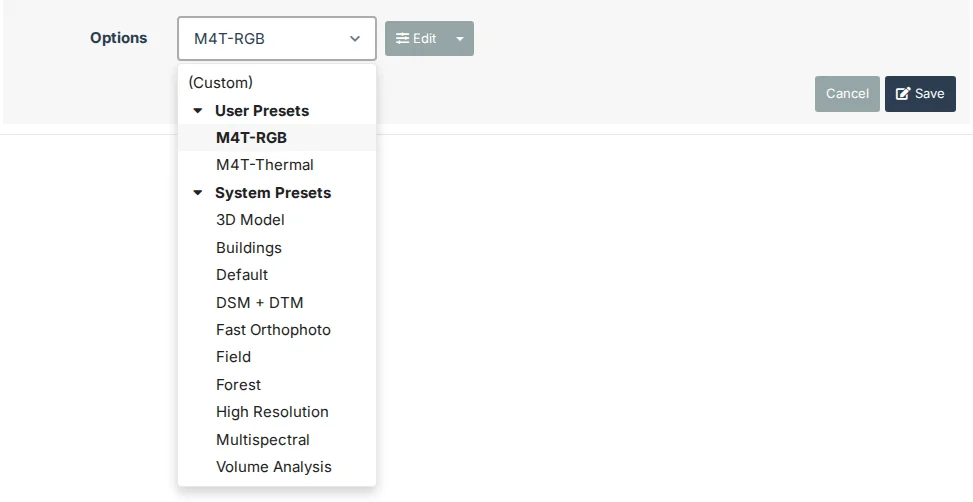
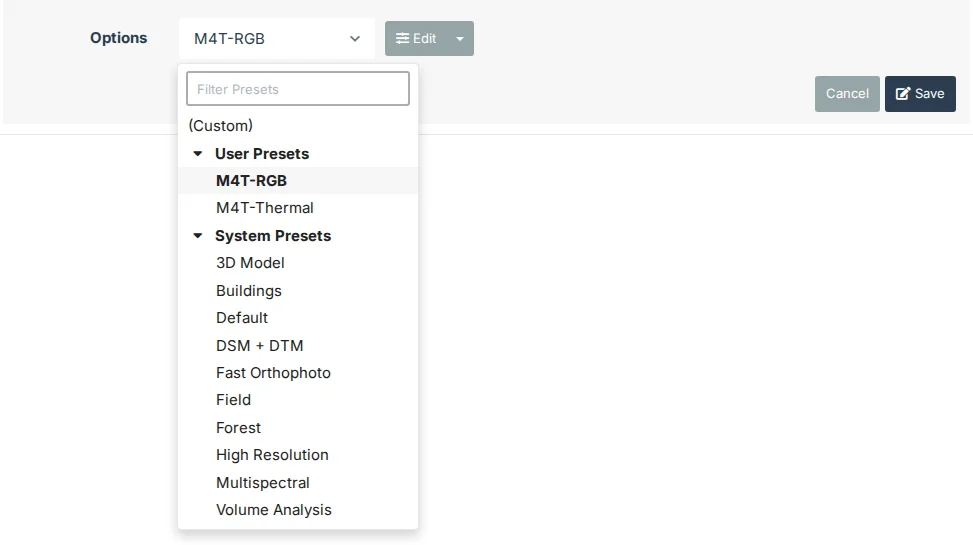
Replace Preset Options Menu: a filter box at the top of the menu
Focused on opening; narrows the presets as you type (any case), their submenus open;
Enter chooses the first match, Escape clears then closes.

diff --git a/tweakui/public/preset_menu.js b/tweakui/public/preset_menu.js
@@ -3,8 +3,9 @@
 // at the top when the options were edited; then two submenus that open in the list, "User Presets" (the user's own)
 // and "System Presets" (WebODM's, Default among them), each A-Z and open at first. WebODM's select stays on the page,
 // hidden: choosing an item sets its value and sends it a change event, so WebODM's own code selects the preset, and
-// the button follows the select (its options, value and title change as WebODM re-renders it). UMD, so Jest can
-// load it.
+// the button follows the select (its options, value and title change as WebODM re-renders it). A filter box at the
+// top, focused as the menu opens, shows only the presets whose names hold what is typed (any case), every submenu with
+// a match open; Enter chooses the first match. UMD, so Jest can load it.
 (function (root, factory) {
     var node = typeof module === "object" && module.exports;
     var api = factory(node ? require("./core") : root.TweakUI);
@@ -65,6 +66,16 @@
         button.appendChild(ui.el(doc, "i", "fa fa-chevron-down tweakui-presets-caret"));
         var menu = ui.el(doc, "ul", "dropdown-menu tweakui-presets-menu");
         menu.setAttribute("role", "menu");
+        // The filter: the menu's first item, kept as the rest is rebuilt (so typing keeps its focus and caret)
+        var filterItem = ui.el(doc, "li", "tweakui-presets-filter");
+        filterItem.setAttribute("role", "presentation");
+        var filter = ui.el(doc, "input", "form-control input-sm");
+        filter.type = "text";
+        filter.setAttribute("placeholder", "Filter Presets");
+        filter.setAttribute("aria-label", "Filter Presets");
+        filter.setAttribute("autocomplete", "off");
+        filterItem.appendChild(filter);
+        menu.appendChild(filterItem);
         wrap.appendChild(button);
         wrap.appendChild(menu);
         // Each submenu, by key: open at first, then as the user left it
@@ -97,16 +108,17 @@
             return li;
         }
 
-        // A submenu's heading, and its presets while open; none without presets
-        function group(key, label, presets) {
+        // A submenu's heading, and its presets while open (always while filtering); none without presets
+        function group(key, label, presets, filtering) {
             if (!presets.length) return;
-            var open = groupOpen[key];
+            var open = filtering || groupOpen[key];
             var li = ui.el(doc, "li", "tweakui-presets-group");
             li.setAttribute("role", "presentation");
             var head = ui.el(doc, "a", "tweakui-presets-group-head");
             head.href = "#";
             head.setAttribute("role", "menuitem");
             head.setAttribute("data-group", key);
+            if (filtering) head.setAttribute("data-filtering", "");
             head.setAttribute("aria-expanded", open ? "true" : "false");
             head.appendChild(ui.el(doc, "i", "fa fa-fw " + (open ? "fa-caret-down" : "fa-caret-right")));
             head.appendChild(doc.createTextNode(" " + label));
@@ -116,29 +128,41 @@
         }
 
         function build() {
-            var list = order(select);
-            while (menu.firstChild) menu.removeChild(menu.firstChild);
-            list.top.forEach(function (p) { menu.appendChild(item(p)); });
-            group("user", "User Presets", list.user);
-            group("system", "System Presets", list.system);
+            var list = order(select), query = filter.value.trim().toLowerCase();
+            var match = function (p) { return !query || p.name.toLowerCase().indexOf(query) !== -1; };
+            while (menu.lastChild !== filterItem) menu.removeChild(menu.lastChild);
+            list.top.filter(match).forEach(function (p) { menu.appendChild(item(p)); });
+            group("user", "User Presets", list.user.filter(match), !!query);
+            group("system", "System Presets", list.system.filter(match), !!query);
+            if (menu.lastChild === filterItem) {
+                var none = ui.el(doc, "li", "disabled tweakui-presets-none");
+                none.setAttribute("role", "presentation");
+                none.appendChild(ui.el(doc, "span", "", "No matching presets"));
+                menu.appendChild(none);
+            }
         }
 
         function isOpen() { return wrap.classList.contains("open"); }
 
         function links() { return Array.prototype.slice.call(menu.querySelectorAll("a")); }
 
-        // The arrows: from the button to the chosen preset (else the first or last item), then item by item
+        // The arrows: from the button to the chosen preset (else the first or last item), from the filter down to the
+        // first match (past the submenus' names), then item by item, the filter box before the first
         function focusItem(step) {
-            var all = links(), i = all.indexOf(doc.activeElement);
-            if (!all.length) return;
-            if (i === -1) (menu.querySelector("li.tweakui-presets-current > a") || all[step > 0 ? 0 : all.length - 1]).focus();
+            var all = [filter].concat(links()), i = all.indexOf(doc.activeElement);
+            var first = menu.querySelector("a[data-value]");
+            if (i === 0 && step > 0 && first) first.focus();
+            else if (i === -1) (menu.querySelector("li.tweakui-presets-current > a") || all[step > 0 ? Math.min(1, all.length - 1) : all.length - 1]).focus();
             else all[(i + step + all.length) % all.length].focus();
         }
 
-        function open() {
+        // focusFilter: opened with a click, ready for typing; the filter starts empty each time
+        function open(focusFilter) {
+            filter.value = "";
             build();
             wrap.classList.add("open");
             button.setAttribute("aria-expanded", "true");
+            if (focusFilter) filter.focus();
         }
 
         function close(refocus) {
@@ -150,13 +174,16 @@
 
         button.addEventListener("click", ui.guard(NAME, function () {
             if (isOpen()) close(false);
-            else open();
+            else open(true);
         }));
+        filter.addEventListener("input", ui.guard(NAME, build));
         menu.addEventListener("click", ui.guard(NAME, function (e) {
             var a = e.target.closest ? e.target.closest("a") : null;
             if (!a) return;
             e.preventDefault();
             if (a.classList.contains("tweakui-presets-group-head")) {
+                // While filtering, every submenu with a match stays open
+                if (a.hasAttribute("data-filtering")) return;
                 var key = a.getAttribute("data-group");
                 groupOpen[key] = a.getAttribute("aria-expanded") !== "true";
                 build();
@@ -172,7 +199,16 @@
         wrap.addEventListener("keydown", ui.guard(NAME, function (e) {
             if (e.key === "Escape" && isOpen()) {
                 e.preventDefault();
-                close(true);
+                // First the filter is cleared, then the menu closed
+                if (filter.value) {
+                    filter.value = "";
+                    build();
+                    filter.focus();
+                } else close(true);
+            } else if (e.key === "Enter" && e.target === filter) {
+                e.preventDefault();
+                var first = menu.querySelector("a[data-value]");
+                if (first) first.click();
             } else if (e.key === "ArrowDown" || e.key === "ArrowUp") {
                 e.preventDefault();
                 if (!isOpen()) open();
@@ -200,7 +236,7 @@
         select.setAttribute(DONE, "");
         select.parentNode.insertBefore(wrap, select.nextSibling);
         sync();
-        return {wrap: wrap, button: button, menu: menu, open: open, close: close, sync: sync};
+        return {wrap: wrap, button: button, menu: menu, filter: filter, open: open, close: close, sync: sync};
     }
 
     // Every preset select on the page that has no dropdown yet

diff --git a/tweakui/public/__tests__/preset_menu.test.js b/tweakui/public/__tests__/preset_menu.test.js
@@ -22,7 +22,7 @@ function start(settings = {replace_preset_menu: true}) {
 }
 
 const button = () => document.querySelector(".tweakui-presets-button");
-const items = () => Array.from(document.querySelectorAll(".tweakui-presets-menu > li")).map(li =>
+const items = () => Array.from(document.querySelectorAll(".tweakui-presets-menu > li:not(.tweakui-presets-filter)")).map(li =>
     li.classList.contains("divider") ? "---" : (li.querySelector(".tweakui-presets-nested") ? "  " : "") + li.textContent.trim());
 const link = text => Array.from(document.querySelectorAll(".tweakui-presets-menu a")).find(a => a.textContent.trim() === text);
 
@@ -95,6 +95,104 @@ test("the chosen preset is marked", () => {
     expect(link("m4t-Thermal").parentNode.className).toBe("tweakui-presets-current");
     expect(link("m4t-Thermal").className).toContain("theme-background-highlight");
     expect(link("Default").parentNode.className).toBe("");
+});
+
+describe("the filter", () => {
+    const filter = () => document.querySelector(".tweakui-presets-filter input");
+    const type = text => {
+        filter().value = text;
+        filter().dispatchEvent(new Event("input", {bubbles: true}));
+    };
+    const key = (k, target = document.activeElement) => target.dispatchEvent(new KeyboardEvent("keydown", {key: k, bubbles: true, cancelable: true}));
+
+    test("opened with a click, the menu's filter box at the top has the focus, empty", () => {
+        form();
+        start();
+        button().click();
+        const first = document.querySelector(".tweakui-presets-menu > li");
+        expect(first.className).toBe("tweakui-presets-filter");
+        expect(filter().placeholder).toBe("Filter Presets");
+        expect(document.activeElement).toBe(filter());
+        expect(filter().value).toBe("");
+    });
+
+    test("typing shows only the presets whose names hold the text, in any case, with their submenus open", () => {
+        form({custom: true, value: "-1"});
+        start();
+        button().click();
+        link("User Presets").click();
+        filter().focus();
+        type("m");
+        expect(items()).toEqual(["(Custom)", "User Presets", "  M4T-RGB", "  m4t-Thermal", "  Multispectral", "System Presets",
+            "  3D Model"]);
+        type("ORTHO");
+        expect(items()).toEqual(["System Presets", "  Fast Orthophoto"]);
+        type("cust");
+        expect(items()).toEqual(["(Custom)"]);
+        // The filter keeps the focus and what was typed as the list changes
+        expect(document.activeElement).toBe(filter());
+        type("");
+        expect(items()).toEqual(["(Custom)", "User Presets", "System Presets", "  3D Model", "  Buildings", "  Default",
+            "  Fast Orthophoto", "  High Resolution"]);
+    });
+
+    test("no match says so", () => {
+        form();
+        start();
+        button().click();
+        type("zzz");
+        expect(items()).toEqual(["No matching presets"]);
+    });
+
+    test("while filtering, a submenu's name doesn't close it", () => {
+        form();
+        start();
+        button().click();
+        type("t");
+        link("User Presets").click();
+        expect(items()).toContain("  m4t-Thermal");
+    });
+
+    test("Enter chooses the first match", () => {
+        const select = form();
+        start();
+        button().click();
+        type("build");
+        key("Enter", filter());
+        expect(select.value).toBe("5");
+        expect(document.querySelector(".tweakui-presets").classList.contains("open")).toBe(false);
+    });
+
+    test("the down arrow goes from the filter to the first match, past its submenu's name; the up arrow back, item by item", () => {
+        form();
+        start();
+        button().click();
+        type("rgb");
+        key("ArrowDown", filter());
+        expect(document.activeElement.textContent).toBe("M4T-RGB");
+        key("ArrowUp");
+        expect(document.activeElement.textContent.trim()).toBe("User Presets");
+        key("ArrowUp");
+        expect(document.activeElement).toBe(filter());
+    });
+
+    test("Escape clears the filter first, then closes the menu; it opens empty again", () => {
+        form();
+        start();
+        button().click();
+        type("rgb");
+        key("Escape", filter());
+        expect(filter().value).toBe("");
+        expect(items()).toContain("  Default");
+        expect(document.querySelector(".tweakui-presets").classList.contains("open")).toBe(true);
+        key("Escape", filter());
+        expect(document.querySelector(".tweakui-presets").classList.contains("open")).toBe(false);
+        button().click();
+        type("rgb");
+        button().click();
+        button().click();
+        expect(filter().value).toBe("");
+    });
 });
 
 test("without presets of the user's, there is no User Presets", () => {

diff --git a/tweakui/public/main.css b/tweakui/public/main.css
@@ -319,6 +319,8 @@ html.tweakui-dragging, html.tweakui-dragging * { user-select: none; }
 .tweakui-presets .tweakui-presets-menu { min-width: 100%; max-height: 60vh; overflow-y: auto; }
 .tweakui-presets .tweakui-presets-menu > li > a.tweakui-presets-nested { padding-left: 38px; }
 .tweakui-presets .tweakui-presets-group-head, .tweakui-presets .tweakui-presets-current > a { font-weight: bold; }
+.tweakui-presets .tweakui-presets-filter { padding: 2px 8px 6px; }
+.tweakui-presets .tweakui-presets-none > span { display: block; padding: 3px 20px; opacity: 0.6; font-style: italic; }
 @media (max-width: 767px) {
     .tweakui-presets { display: block; }
 }

diff --git a/tweakui/features.py b/tweakui/features.py
@@ -83,7 +83,7 @@ CATEGORIES = [
             Setting("replace_preset_menu", False, _("Replace Preset Options Menu"),
                     _("Replaces the Options dropdown of a new or edited task with a menu that lists its presets A-Z in "
                       "two submenus, User Presets (your own saved presets) and System Presets (WebODM's, Default among "
-                      "them), below (Custom)."),
+                      "them), below (Custom), and a box at the top that filters them as you type."),
                     preview="replace-preset-options-menu", scripts=["preset_menu.js"]),
         ]),
         Group(_("Task Details"), [

diff --git a/upcoming-changes.md b/upcoming-changes.md
@@ -10,6 +10,12 @@
   cleaner hook; see "Global Controls: units and temperature in the header".
 
 **Done**
+- **Replace Preset Options Menu: a filter box** (the user's request, 2026-11-08) — at the top of the menu, focused on
+  opening: only the presets whose names hold the text (any case) stay, their submenus open and not closable while
+  filtering; "No matching presets"; Enter chooses the first match, the down arrow goes to it, Escape clears then
+  closes; empty each time the menu opens. Branch `preset-menu-filter`: `preset_menu.js` (`filter`, `build`,
+  `focusItem`), `main.css`, tests in `__tests__/preset_menu.test.js`, `features.py`'s description, `docs/general.md`,
+  CHANGELOG, screenshot retaken. Live on both stacks with real typing (4.0.0's Edit form, 3.3.2's New Task panel).
 - **Just for Fun: Enable Interaction** (the user's request, 2026-11-08) — a part of Surprise Me
   (`surprise_me_interaction`, on by default so the right-click rocket stays until turned off; listed in the tests'
   `ON_BY_DEFAULT` with its reason): off, the fireworks go on and a right-click is the browser's. Branch

diff --git a/docs/general.md b/docs/general.md
@@ -90,10 +90,14 @@ easier to scan:
 
 Both submenus start open; a click on a submenu's name closes it, and opens it again.
 
+A **filter box** at the top of the menu has the keyboard focus as the menu opens: type part of a preset's name, in
+any case, and only the presets that match stay, their submenus open ("No matching presets" when none does). Enter
+chooses the first match and the down arrow moves into the list. Escape clears the filter, and a second Escape closes
+the menu. The filter starts empty each time the menu opens.
+
 The chosen preset is in bold and highlighted, in your theme's colours (WebODM's own dropdown shows the system presets
 on a light background, which a dark theme makes hard to read). Choosing a preset works as it does in WebODM's dropdown,
-and the Edit button beside it is unchanged. From the keyboard, the arrow keys open the list and move through it, and
-Escape closes it.
+and the Edit button beside it is unchanged. From the keyboard, the arrow keys open the list and move through it.
 
 ## Task Details > Enhanced Task Details
 

diff --git a/CHANGELOG.md b/CHANGELOG.md
@@ -2,6 +2,8 @@
 
 ## Unreleased
 
+- Replace Preset Options Menu: a filter box at the top of the menu narrows the presets as you type; Enter chooses the
+  first match.
 - General > Just for Fun > Surprise Me > Enable Interaction (on by default): turn it off to keep the fireworks
   without the right-click's rocket, leaving the mouse to the browser and the page.
 - Surprise Me: a right-click on Windows sends only its rocket; the browser's menu no longer opens too (Windows sends
